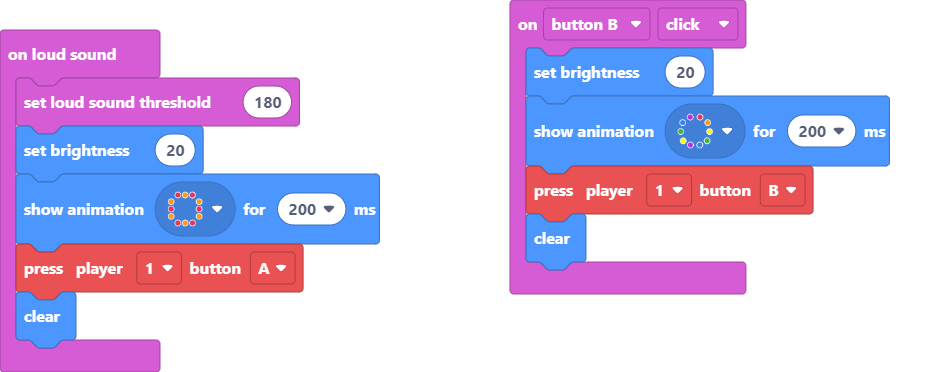
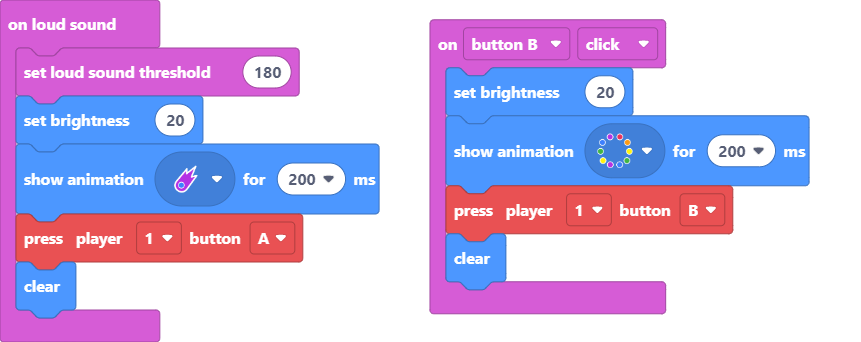
Update main.blocks, main.ts

diff --git a/main.ts b/main.ts
@@ -1,7 +1,7 @@
 input.onLoudSound(function () {
     input.setLoudSoundThreshold(180)
     light.setBrightness(20)
-    light.showAnimation(light.theaterChaseAnimation, 200)
+    light.showAnimation(light.cometAnimation, 200)
     makerController.player1.press(ArcadeButton.A)
     light.clear()
 })
